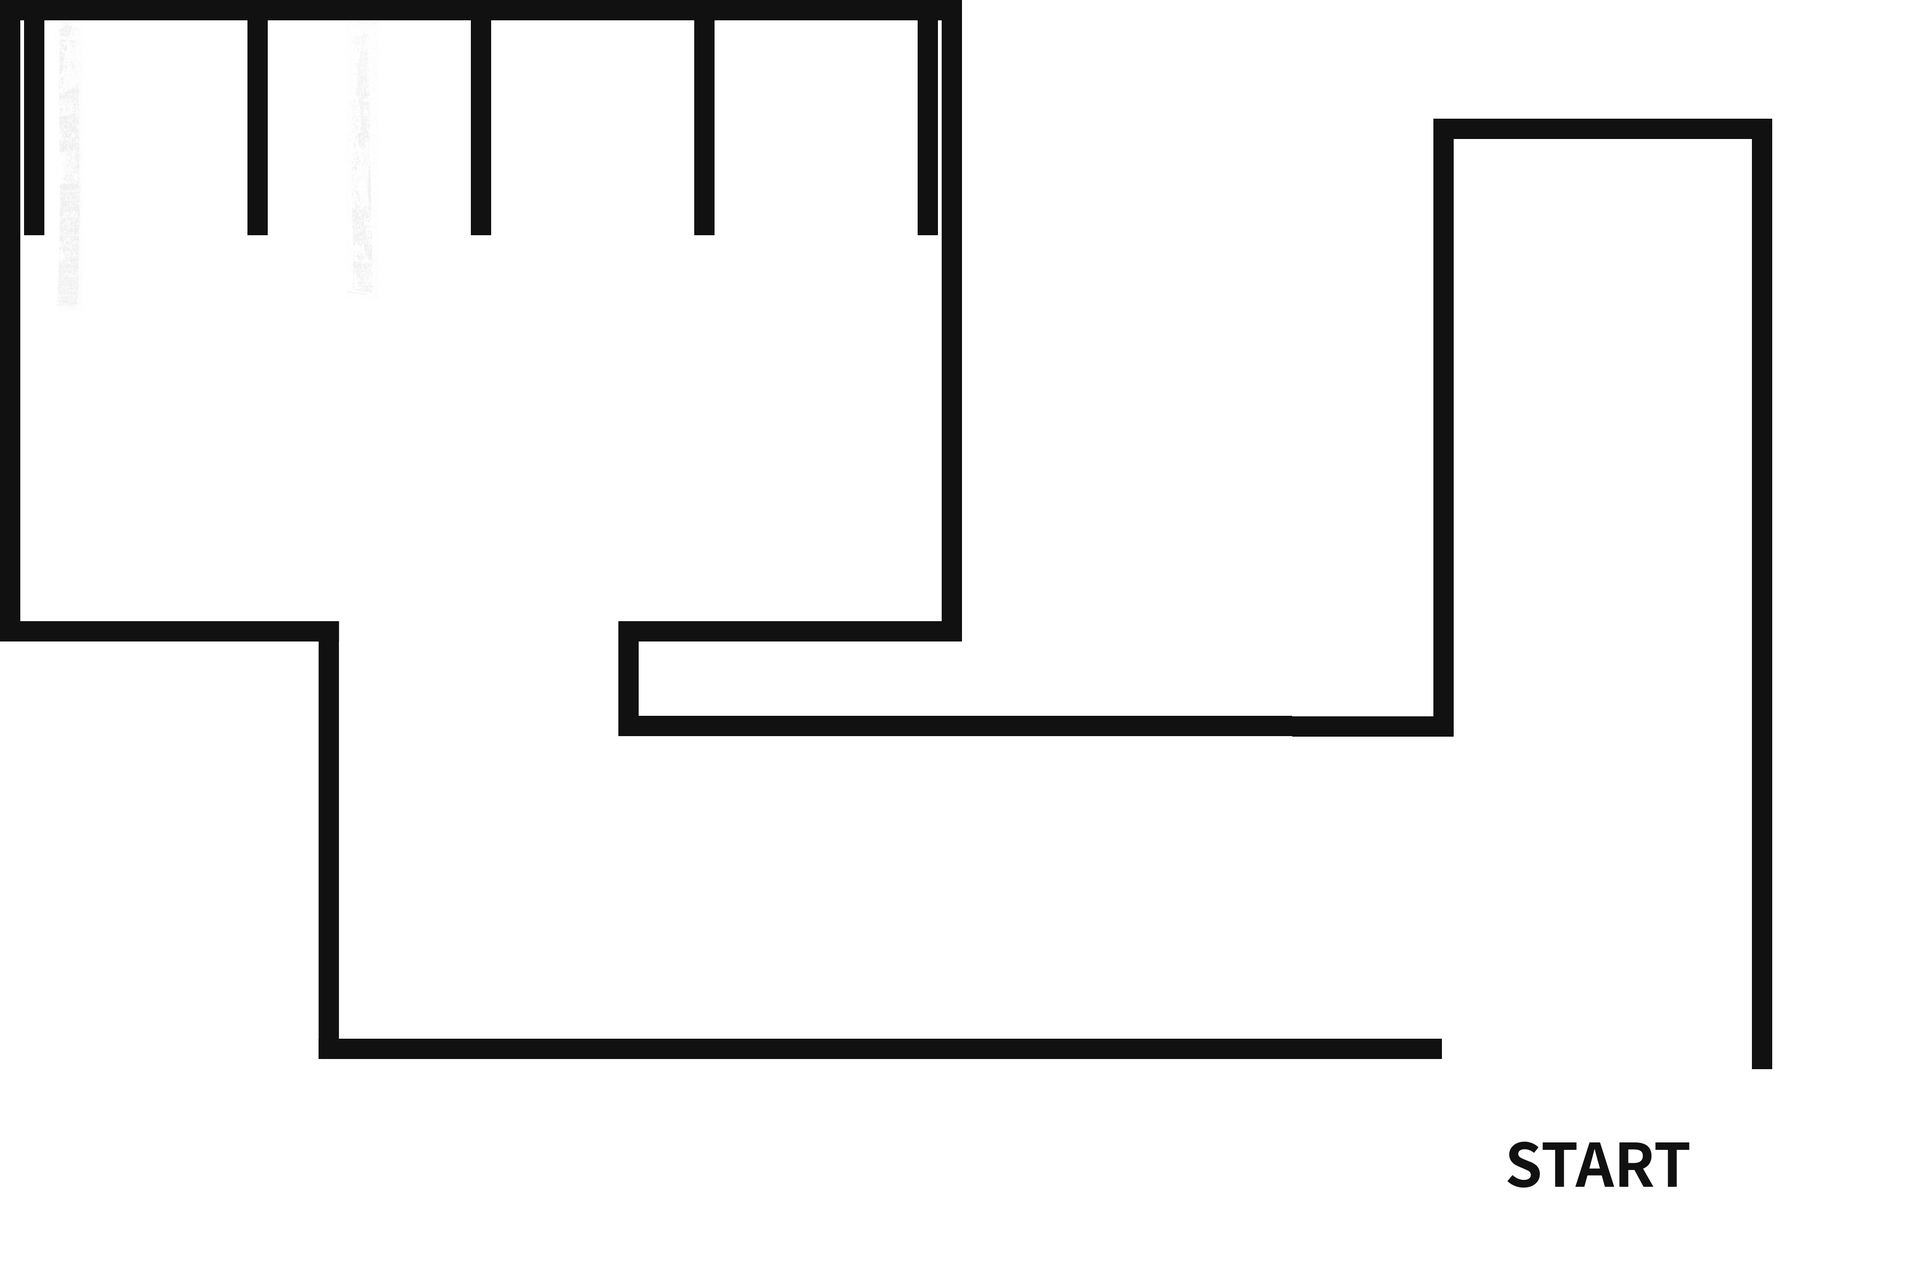
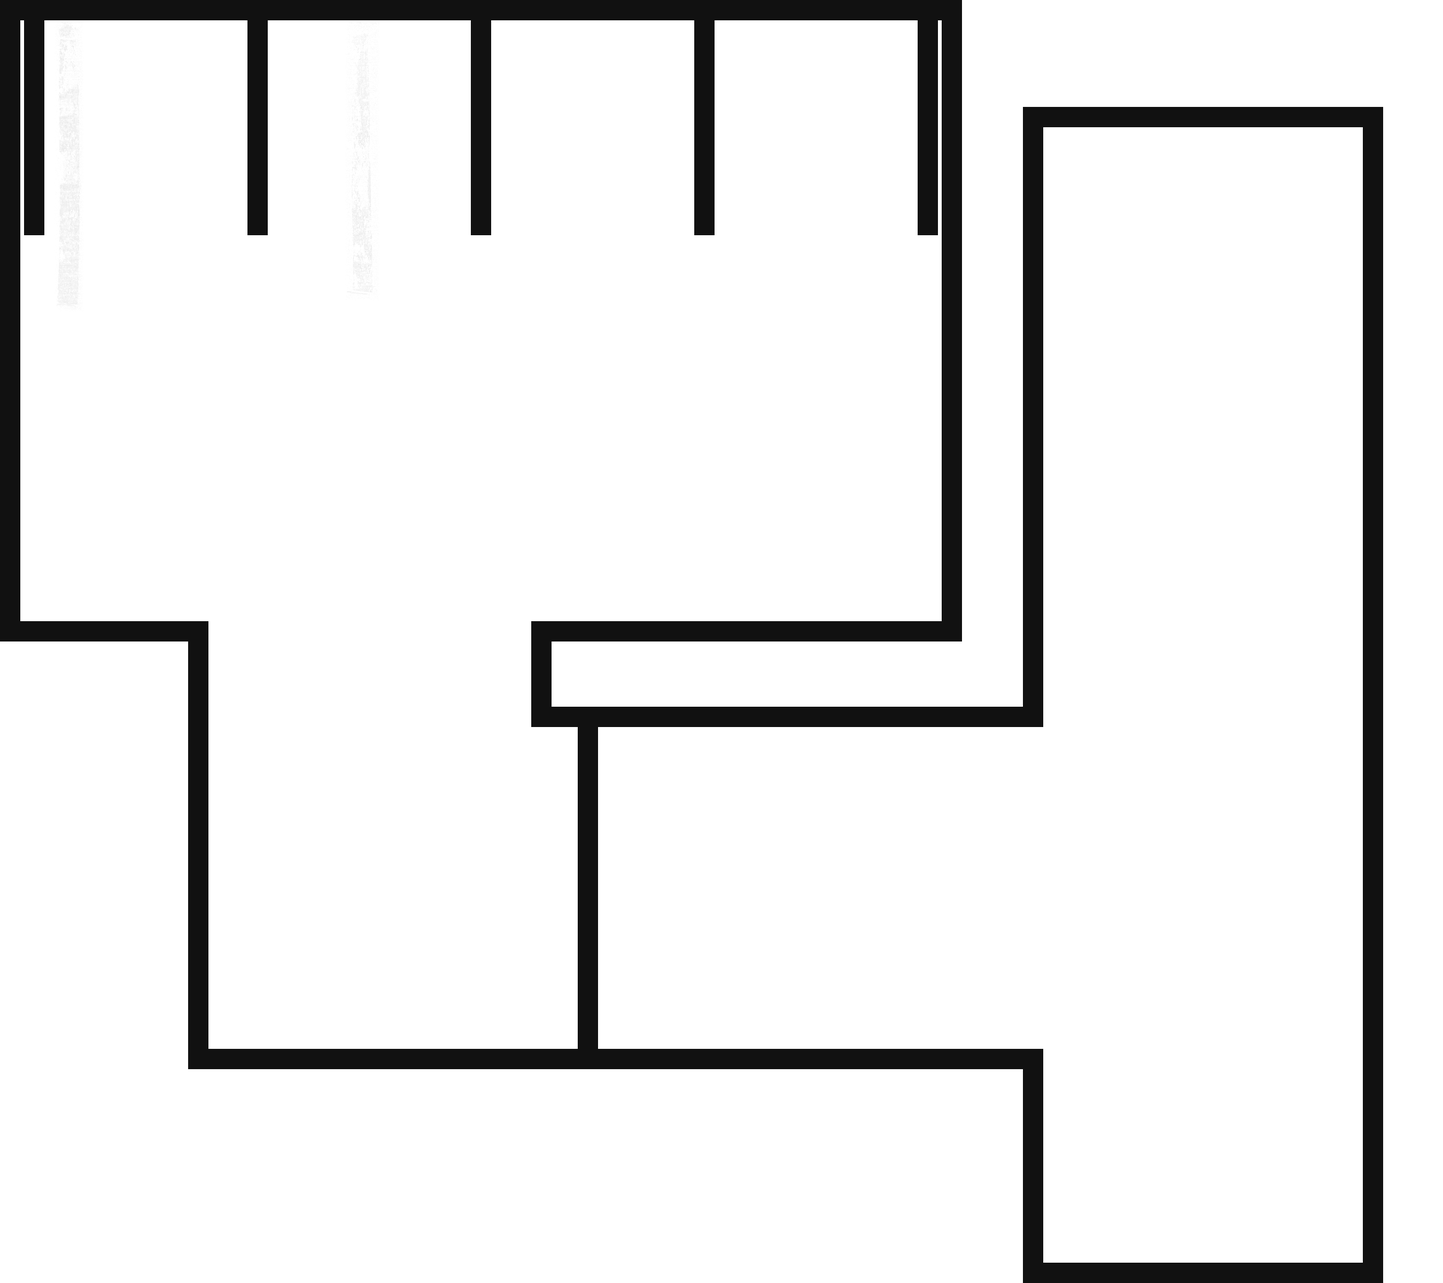
Sync sim with the new T course and the real ceiling webcam
- worlds: 1350 x 1200 T course floor (tape layout, stop line, tape residue), standing walls (white 0.21 m, cardboard 0.24 m); sim origin = robot start
- parking_ceiling_camera: calibrated NOVOMAX NC-150 pose (h 1.815 m, tilt 25.8 deg, HFOV 37.2 deg) and radial distortion k1 -0.2184
- tools/gen_parking_dataset.py: new tape map and camera, distortion on images and masks, curved line labels, +-3 cm / +-3 deg camera jitter, entrance poses, --split, poses.csv ground truth

Claude-Session: https://claude.ai/code/session_01RoE7SnZpyvVfbqpobF1oLc

diff --git a/tools/gen_parking_dataset.py b/tools/gen_parking_dataset.py
@@ -3,9 +3,14 @@
 
 Classes: 0 wheel, 1 line (black tape), 2 body (robot body, wheels excluded).
 Robot poses are sampled in the parking board (random, approaching, parked front-in / rear-in),
-with small camera, light and image randomisation. pinky_pro is not modified.
+with camera, light and image randomisation. The camera is the calibrated real webcam
+(NOVOMAX NC-150, 640x480) including its radial lens distortion. pinky_pro is not modified.
+A poses.csv with the ground-truth robot pose of every image is written next to data.yaml.
 
-usage: python gen_parking_dataset.py --out ~/dev_ws/pinky_parking_sim/datasets/parking_seg --count 2000
+usage:
+  train+val : python gen_parking_dataset.py --count 2000                      (val = --val fraction, seed 0)
+  test only : python gen_parking_dataset.py --count 300 --split test --seed 100
+Use a different --seed for each separately generated split so no pose/lighting sample is shared.
 """
 import argparse
 import math
@@ -19,20 +24,24 @@ from scipy.spatial import ConvexHull
 
 CLASSES = ['wheel', 'line', 'body']
 
-# Ceiling camera (same as parking_ceiling_camera node).
-CAM_POS = np.array([0.8, 1.05, 0.98])
-CAM_QUAT = np.array([0.7071068, 0.0, 0.0, 0.7071068])
-HFOV_DEG = 60.0
+# Ceiling camera: calibrated real webcam (same values as the parking_ceiling_camera node).
+CAM_POS = np.array([-0.2894, 0.5706, 1.815])
+CAM_QUAT = np.array([0.69746, 0.15253, -0.16265, -0.68105])
+HFOV_DEG = 37.21
+K1 = -0.2184
 
-# Black tape rectangles in floor-image mm (u from left, v from top, w, h); see worlds/course_floor.png.
+# Black tape rectangles in floor mm (u from left, v from top, w, h); floor 1350 x 1200,
+# see worlds/course_floor.png and docs course_tape_positions.md.
 TAPES = [
+    (0, 0, 900, 19), (0, 0, 19, 600), (881, 0, 19, 600),
     (22.5, 0, 19, 220), (231.5, 0, 19, 220), (440.5, 0, 19, 220), (649.5, 0, 19, 220), (858.5, 0, 19, 220),
-    (0, 0, 900, 19), (0, 0, 19, 600), (881, 0, 19, 600), (0, 581, 317.1, 19), (578.5, 581, 321.5, 19),
-    (298.1, 581, 19, 409.5), (578.5, 581, 19, 107.5), (578.5, 669.5, 630.5, 19), (298.1, 971.5, 850.9, 19),
-    (1341, 111, 317, 19), (1341, 111, 19, 569), (1209, 670, 151, 19), (1639, 111, 19, 889), (1149, 971.5, 200, 19),
+    (0, 581, 195, 19), (497, 581, 403, 19),
+    (176, 581, 19, 419), (497, 581, 19, 99), (497, 661, 479, 19), (176, 981, 800, 19), (540.5, 680, 19, 301),
+    (957, 100, 19, 580), (957, 100, 337, 19), (1275, 100, 19, 1100), (957, 981, 19, 219), (957, 1181, 337, 19),
 ]
 FLOOR_Z = 0.002
-SLOT_Y = [(1500 - u) / 1000 for u in (136.5, 345.5, 554.5, 763.5)]   # A..D slot centres (world y)
+START_U, START_V = 1125.0, 1090.0                                     # sim origin (robot start) in floor mm
+SLOT_U = (136.5, 345.5, 554.5, 763.5)                                 # A..D slot centres (floor u)
 
 REAL_COLORS = {'wheel': (0.05, 0.42, 0.72), 'body': (0.06, 0.06, 0.07), 'lidar': (0.04, 0.04, 0.05),
                'rear': (0.62, 0.62, 0.66), 'front': (0.45, 0.45, 0.45)}
@@ -44,7 +53,11 @@ COLOR_RULES = [('l_wheel_visual_0_4', 'wheel'), ('r_wheel_visual_0_4', 'wheel'),
 
 
 def mm_to_world(u, v):
-    return np.array([(1100 - v) / 1000, (1500 - u) / 1000, FLOOR_Z])
+    return np.array([(START_V - v) / 1000, (START_U - u) / 1000, FLOOR_Z])
+
+
+def world_to_mm(x, y):
+    return START_U - y * 1000, START_V - x * 1000
 
 
 def yaw_quat(yaw):
@@ -65,6 +78,43 @@ def small_rotation(rng, max_deg):
     return np.array([math.cos(angle / 2), *(axis * math.sin(angle / 2))])
 
 
+def render_size(width, height, f):
+    """Undistorted render a bit larger than the output so barrel distortion has source pixels."""
+    rd = math.hypot(width / 2, height / 2) / f
+    ru = rd
+    for _ in range(20):
+        ru = rd / (1 + K1 * ru * ru)
+    margin = max(1.0, ru / rd) * 1.08          # extra room for camera jitter is not needed; 8% safety
+    return int(math.ceil(width * margin / 2)) * 2, int(math.ceil(height * margin / 2)) * 2
+
+
+def distortion_map(width, height, f, rw, rh):
+    ys, xs = np.mgrid[0:height, 0:width].astype(np.float64)
+    xd, yd = (xs - width / 2) / f, (ys - height / 2) / f
+    xu, yu = xd.copy(), yd.copy()
+    for _ in range(20):
+        scale = 1 + K1 * (xu * xu + yu * yu)
+        xu, yu = xd / scale, yd / scale
+    return xu * f + rw / 2, yu * f + rh / 2
+
+
+def remap_bilinear(img, mx, my):
+    h, w = img.shape[:2]
+    x = np.clip(mx, 0, w - 1.001); y = np.clip(my, 0, h - 1.001)
+    x0, y0 = x.astype(np.int32), y.astype(np.int32)
+    fx, fy = (x - x0)[..., None], (y - y0)[..., None]
+    a = img.astype(np.float32)
+    top = a[y0, x0] * (1 - fx) + a[y0, x0 + 1] * fx
+    bot = a[y0 + 1, x0] * (1 - fx) + a[y0 + 1, x0 + 1] * fx
+    return top * (1 - fy) + bot * fy
+
+
+def remap_nearest(img, mx, my):
+    h, w = img.shape[:2]
+    x = np.clip(np.rint(mx), 0, w - 1).astype(np.int32); y = np.clip(np.rint(my), 0, h - 1).astype(np.int32)
+    return img[y, x]
+
+
 def build(model_path, width, height):
     spec = mujoco.MjSpec.from_file(model_path)
     for key, rgb in REAL_COLORS.items():
@@ -75,10 +125,14 @@ def build(model_path, width, height):
                 if geom.name.startswith(prefix):
                     geom.material, geom.rgba = f'real_{key}', [*REAL_COLORS[key], 1.0]
                     break
-    fovy = math.degrees(2 * math.atan(math.tan(math.radians(HFOV_DEG) / 2) * height / width))
+    f = width / 2 / math.tan(math.radians(HFOV_DEG) / 2)
+    rw, rh = render_size(width, height, f)
+    fovy = math.degrees(2 * math.atan(rh / 2 / f))
     spec.worldbody.add_camera(name='ceiling_camera', pos=CAM_POS.tolist(), quat=CAM_QUAT.tolist(), fovy=fovy)
+    spec.visual.global_.offwidth = max(spec.visual.global_.offwidth, rw)
+    spec.visual.global_.offheight = max(spec.visual.global_.offheight, rh)
     model = spec.compile()
-    return model, fovy
+    return model, f, rw, rh
 
 
 def geom_classes(model):
@@ -96,26 +150,44 @@ def geom_classes(model):
 
 
 def sample_pose(rng):
-    kind = rng.choice(['free', 'approach', 'parked'], p=[0.45, 0.25, 0.30])
-    if kind == 'free':                       # anywhere in the board, any heading
-        x, y, yaw = rng.uniform(0.56, 1.04), rng.uniform(0.66, 1.44), rng.uniform(-math.pi, math.pi)
+    """Robot centre (floor mm u, v) and heading; yaw 0 = facing the slots (-v), i.e. front-in."""
+    kind = rng.choice(['free', 'entrance', 'approach', 'parked'], p=[0.35, 0.15, 0.20, 0.30])
+    if kind == 'free':                       # anywhere on the parking board, any heading
+        u, v, yaw = rng.uniform(60, 840), rng.uniform(60, 560), rng.uniform(-math.pi, math.pi)
+    elif kind == 'entrance':                 # in the entrance / lower corridor, heading roughly up or down
+        u, v = rng.uniform(250, 445), rng.uniform(560, 760)
+        yaw = rng.choice([0.0, math.pi]) + rng.normal(0, math.radians(25))
     elif kind == 'approach':                 # between entrance and slots, roughly facing a slot
-        y = rng.choice(SLOT_Y) + rng.normal(0, 0.08)
-        x = rng.uniform(0.6, 0.9)
+        u = rng.choice(SLOT_U) + rng.normal(0, 80)
+        v = rng.uniform(250, 500)
         yaw = rng.choice([0.0, math.pi]) + rng.normal(0, math.radians(35))
     else:                                    # parked front-in (yaw 0) or rear-in (yaw pi), small errors
-        y = rng.choice(SLOT_Y) + rng.normal(0, 0.015)
-        x = rng.uniform(0.95, 1.01)
+        u = rng.choice(SLOT_U) + rng.normal(0, 15)
+        v = rng.uniform(90, 150)
         yaw = rng.choice([0.0, math.pi]) + rng.normal(0, math.radians(6))
-    return x, y, yaw, kind
+    x, y = mm_to_world(u, v)[:2]
+    return x, y, (yaw + math.pi) % (2 * math.pi) - math.pi, kind
 
 
 def project(points, data, cam_id, f, width, height):
+    """World points -> distorted output pixels (same model as the real webcam)."""
     pos, rot = data.cam_xpos[cam_id], data.cam_xmat[cam_id].reshape(3, 3)
     local = (points - pos) @ rot              # world -> camera frame (camera looks along -Z, +Y up)
-    u = width / 2 + f * local[:, 0] / -local[:, 2]
-    v = height / 2 - f * local[:, 1] / -local[:, 2]
-    return np.column_stack([u, v])
+    xu = local[:, 0] / -local[:, 2]
+    yu = -local[:, 1] / -local[:, 2]
+    scale = 1 + K1 * (xu * xu + yu * yu)
+    return np.column_stack([width / 2 + f * xu * scale, height / 2 + f * yu * scale])
+
+
+def tape_outline(u, v, w, h, step=10.0):
+    """Rectangle perimeter sampled every `step` mm so its curved (distorted) image is followed."""
+    pts = []
+    for (u0, v0), (u1, v1) in (((u, v), (u + w, v)), ((u + w, v), (u + w, v + h)),
+                               ((u + w, v + h), (u, v + h)), ((u, v + h), (u, v))):
+        n = max(1, int(math.ceil(math.hypot(u1 - u0, v1 - v0) / step)))
+        for t in np.arange(n) / n:
+            pts.append(mm_to_world(u0 + (u1 - u0) * t, v0 + (v1 - v0) * t))
+    return np.array(pts)
 
 
 def clip_polygon(poly, width, height):
@@ -165,49 +237,61 @@ def main():
     parser.add_argument('--model', default='~/.cache/pinky_mujoco/scene.xml')
     parser.add_argument('--out', default='~/dev_ws/pinky_parking_sim/datasets/parking_seg')
     parser.add_argument('--count', type=int, default=2000)
-    parser.add_argument('--val', type=float, default=0.1)
+    parser.add_argument('--val', type=float, default=0.1, help='val fraction when --split auto')
+    parser.add_argument('--split', default='auto', choices=['auto', 'train', 'val', 'test'],
+                        help='auto: train/val by --val; otherwise write every image to this split')
     parser.add_argument('--width', type=int, default=640)
     parser.add_argument('--height', type=int, default=480)
     parser.add_argument('--seed', type=int, default=0)
     parser.add_argument('--debug', type=int, default=10, help='overlay images to write')
+    parser.add_argument('--cam-jitter-m', type=float, default=0.03, help='camera position jitter (+- m)')
+    parser.add_argument('--cam-jitter-deg', type=float, default=3.0, help='camera rotation jitter (+- deg)')
     args = parser.parse_args()
 
     out = Path(os.path.expanduser(args.out))
-    for split in ('train', 'val'):
+    for split in ('train', 'val', 'test'):
         (out / 'images' / split).mkdir(parents=True, exist_ok=True)
         (out / 'labels' / split).mkdir(parents=True, exist_ok=True)
     (out / 'debug').mkdir(exist_ok=True)
     (out / 'data.yaml').write_text(
-        f'path: {out}\ntrain: images/train\nval: images/val\nnames:\n'
+        f'path: {out}\ntrain: images/train\nval: images/val\ntest: images/test\nnames:\n'
         + ''.join(f'  {i}: {n}\n' for i, n in enumerate(CLASSES)))
 
-    model, fovy = build(os.path.expanduser(args.model), args.width, args.height)
+    model, f, rw, rh = build(os.path.expanduser(args.model), args.width, args.height)
     data = mujoco.MjData(model)
     cam_id = model.camera('ceiling_camera').id
-    f = args.height / 2 / math.tan(math.radians(fovy) / 2)
+    map_x, map_y = distortion_map(args.width, args.height, f, rw, rh)
     table = geom_classes(model)
     wheel_q = [model.joint(f'{s}_wheel_joint').qposadr[0] for s in ('l', 'r')]
     base_z = float(model.qpos0[2])
     light0 = model.light_diffuse.copy()
     head0 = (model.vis.headlight.diffuse.copy(), model.vis.headlight.ambient.copy())
-    rgb_renderer = mujoco.Renderer(model, args.height, args.width)
-    seg_renderer = mujoco.Renderer(model, args.height, args.width)
+    rgb_renderer = mujoco.Renderer(model, rh, rw)
+    seg_renderer = mujoco.Renderer(model, rh, rw)
     seg_renderer.enable_segmentation_rendering()
-    tapes = [np.array([mm_to_world(u, v), mm_to_world(u + w, v), mm_to_world(u + w, v + h), mm_to_world(u, v + h)])
-             for u, v, w, h in TAPES]
+    tapes = [tape_outline(u, v, w, h) for u, v, w, h in TAPES]
+    pose_csv = out / 'poses.csv'
+    new_csv = not pose_csv.exists()
+    csv = open(pose_csv, 'a')
+    if new_csv:
+        csv.write('split,name,kind,x_m,y_m,yaw_rad,u_mm,v_mm,cam_dx,cam_dy,cam_dz,light_scale\n')
     rng = np.random.default_rng(args.seed)
     n_val = int(round(args.count * args.val))
 
     for k in range(args.count):
-        split = 'val' if k < n_val else 'train'
+        if args.split == 'auto':
+            split = 'val' if k < n_val else 'train'
+        else:
+            split = args.split
         x, y, yaw, kind = sample_pose(rng)
         data.qpos[:] = model.qpos0
         data.qpos[0:3] = [x, y, base_z]
         data.qpos[3:7] = yaw_quat(yaw)
         data.qpos[wheel_q] = rng.uniform(-math.pi, math.pi, 2)
-        # camera jitter: +-1 cm, +-1 deg (mount not perfectly placed)
-        model.cam_pos[cam_id] = CAM_POS + rng.uniform(-0.01, 0.01, 3)
-        model.cam_quat[cam_id] = quat_mul(CAM_QUAT, small_rotation(rng, 1.0))
+        # camera jitter (mount moved slightly / re-mounted): default +-3 cm, +-3 deg
+        cam_d = rng.uniform(-args.cam_jitter_m, args.cam_jitter_m, 3)
+        model.cam_pos[cam_id] = CAM_POS + cam_d
+        model.cam_quat[cam_id] = quat_mul(CAM_QUAT, small_rotation(rng, args.cam_jitter_deg))
         scale = rng.uniform(0.7, 1.2)
         model.light_diffuse[:] = light0 * scale
         model.vis.headlight.diffuse[:] = head0[0] * rng.uniform(0.7, 1.2)
@@ -216,9 +300,9 @@ def main():
         mujoco.mj_camlight(model, data)
 
         rgb_renderer.update_scene(data, camera='ceiling_camera')
-        rgb = rgb_renderer.render().astype(np.float32)
+        rgb = remap_bilinear(rgb_renderer.render(), map_x, map_y)          # lens distortion
         seg_renderer.update_scene(data, camera='ceiling_camera')
-        seg = seg_renderer.render()
+        seg = remap_nearest(seg_renderer.render(), map_x, map_y)
         # image randomisation: brightness/contrast, colour cast, sensor noise
         rgb = (rgb - 128) * rng.uniform(0.85, 1.15) + 128 + rng.uniform(-20, 20)
         rgb *= rng.uniform(0.97, 1.03, 3)
@@ -246,6 +330,9 @@ def main():
                     labels.append((1, poly))
 
         name = f'{k:05d}_{kind}'
+        u_mm, v_mm = world_to_mm(x, y)
+        csv.write(f'{split},{name},{kind},{x:.4f},{y:.4f},{yaw:.4f},{u_mm:.1f},{v_mm:.1f},'
+                  f'{cam_d[0]:.4f},{cam_d[1]:.4f},{cam_d[2]:.4f},{scale:.3f}\n')
         image.save(out / 'images' / split / f'{name}.jpg', quality=95)
         with open(out / 'labels' / split / f'{name}.txt', 'w') as fh:
             for cls, poly in labels:
@@ -259,9 +346,10 @@ def main():
             colors = {0: (0, 120, 255, 110), 1: (255, 0, 0, 90), 2: (0, 200, 0, 90)}
             for cls, poly in labels:
                 draw.polygon([tuple(p) for p in poly], fill=colors[cls], outline=colors[cls][:3] + (255,))
-            Image.alpha_composite(overlay, layer).convert('RGB').save(out / 'debug' / f'{name}.jpg')
+            Image.alpha_composite(overlay, layer).convert('RGB').save(out / 'debug' / f'{split}_{name}.jpg')
         if (k + 1) % 100 == 0 or k + 1 == args.count:
             print(f'{k + 1}/{args.count}', flush=True)
+    csv.close()
     print(f'done: {out}')
 
 

diff --git a/parking_ceiling_camera/parking_ceiling_camera/ceiling_camera_node.py b/parking_ceiling_camera/parking_ceiling_camera/ceiling_camera_node.py
@@ -43,29 +43,46 @@ class CeilingCamera(Node):
         super().__init__('ceiling_camera_node')
         p = self.declare_parameter
         model_path = os.path.expanduser(p('model_path', '~/.cache/pinky_mujoco/scene.xml').value)
-        pos = list(p('position', [0.8, 1.05, 0.98]).value)
-        quat = list(p('quat', [0.7071068, 0.0, 0.0, 0.7071068]).value)
-        hfov = math.radians(p('horizontal_fov_deg', 60.0).value)
+        pos = list(p('position', [-0.2894, 0.5706, 1.815]).value)
+        quat = list(p('quat', [0.69746, 0.15253, -0.16265, -0.68105]).value)
+        hfov = math.radians(p('horizontal_fov_deg', 37.21).value)
         self.width = int(p('width', 640).value)
         self.height = int(p('height', 480).value)
         fps = float(p('fps', 10.0).value)
         self.frame_id = p('frame_id', 'ceiling_camera').value
         real_colors = bool(p('real_colors', True).value)
-        fovy = math.degrees(2 * math.atan(math.tan(hfov / 2) * self.height / self.width))
+        # radial lens distortion of the real webcam (calibrated, OpenCV k1); 0 disables it
+        self.k1 = float(p('distortion_k1', -0.2184).value)
+        self.f = self.width / 2 / math.tan(hfov / 2)          # focal length in pixels
+        # render an undistorted image slightly larger than the output so that the
+        # barrel-distorted output has source pixels up to its corners
+        margin = 1.0
+        if self.k1 < 0:
+            rd = math.hypot(self.width / 2, self.height / 2) / self.f
+            ru = rd
+            for _ in range(20):
+                ru = rd / (1 + self.k1 * ru * ru)
+            margin = ru / rd * 1.02
+        self.rw = int(math.ceil(self.width * margin / 2)) * 2
+        self.rh = int(math.ceil(self.height * margin / 2)) * 2
+        fovy = math.degrees(2 * math.atan(self.rh / 2 / self.f))
 
         spec = mujoco.MjSpec.from_file(model_path)
         if real_colors:
             apply_real_colors(spec)
         spec.worldbody.add_camera(name='ceiling_camera', pos=pos, quat=quat, fovy=fovy)
+        spec.visual.global_.offwidth = max(spec.visual.global_.offwidth, self.rw)
+        spec.visual.global_.offheight = max(spec.visual.global_.offheight, self.rh)
         self.model = spec.compile()
         self.data = mujoco.MjData(self.model)
         self.base_z = float(self.data.qpos[2])
-        self.renderer = mujoco.Renderer(self.model, self.height, self.width)
+        self.renderer = mujoco.Renderer(self.model, self.rh, self.rw)
+        self.map_x, self.map_y = self.distortion_map()
 
-        fy = self.height / 2 / math.tan(math.radians(fovy) / 2)
+        fy = self.f
         cx, cy = self.width / 2, self.height / 2
         self.info = CameraInfo(width=self.width, height=self.height, distortion_model='plumb_bob',
-                               d=[0.0] * 5, k=[fy, 0.0, cx, 0.0, fy, cy, 0.0, 0.0, 1.0],
+                               d=[self.k1, 0.0, 0.0, 0.0, 0.0], k=[fy, 0.0, cx, 0.0, fy, cy, 0.0, 0.0, 1.0],
                                r=[1.0, 0, 0, 0, 1.0, 0, 0, 0, 1.0],
                                p=[fy, 0.0, cx, 0.0, 0.0, fy, cy, 0.0, 0.0, 0.0, 1.0, 0.0])
         self.info.header.frame_id = self.frame_id
@@ -76,7 +93,29 @@ class CeilingCamera(Node):
         self.info_pub = self.create_publisher(CameraInfo, 'ceiling_camera/camera_info', 10)
         self.create_timer(1.0 / fps, self.publish)
         self.get_logger().info(f'ceiling camera {self.width}x{self.height} @ {fps:g} Hz, '
-                               f'pos={pos}, hfov={math.degrees(hfov):g} deg, real_colors={real_colors}')
+                               f'pos={pos}, hfov={math.degrees(hfov):g} deg, k1={self.k1:g}, real_colors={real_colors}')
+
+    def distortion_map(self):
+        """For every output (distorted) pixel, the source pixel in the undistorted render."""
+        ys, xs = np.mgrid[0:self.height, 0:self.width].astype(np.float64)
+        xd = (xs - self.width / 2) / self.f
+        yd = (ys - self.height / 2) / self.f
+        xu, yu = xd.copy(), yd.copy()
+        for _ in range(20):                      # invert x_d = x_u * (1 + k1 * r_u^2)
+            scale = 1 + self.k1 * (xu * xu + yu * yu)
+            xu, yu = xd / scale, yd / scale
+        return xu * self.f + self.rw / 2, yu * self.f + self.rh / 2
+
+    def distort(self, rgb):
+        """Bilinear resample of the undistorted render into the distorted output image."""
+        x = np.clip(self.map_x, 0, self.rw - 1.001)
+        y = np.clip(self.map_y, 0, self.rh - 1.001)
+        x0, y0 = x.astype(np.int32), y.astype(np.int32)
+        fx, fy = (x - x0)[..., None], (y - y0)[..., None]
+        img = rgb.astype(np.float32)
+        top = img[y0, x0] * (1 - fx) + img[y0, x0 + 1] * fx
+        bottom = img[y0 + 1, x0] * (1 - fx) + img[y0 + 1, x0 + 1] * fx
+        return (top * (1 - fy) + bottom * fy).astype(np.uint8)
 
     def on_pose(self, msg):
         q = msg.pose.orientation
@@ -94,7 +133,7 @@ class CeilingCamera(Node):
         mujoco.mj_kinematics(self.model, self.data)
         mujoco.mj_camlight(self.model, self.data)
         self.renderer.update_scene(self.data, camera='ceiling_camera')
-        rgb = self.renderer.render()
+        rgb = self.distort(self.renderer.render())
         stamp = self.get_clock().now().to_msg()
         image = Image(height=self.height, width=self.width, encoding='rgb8', is_bigendian=0,
                       step=self.width * 3, data=np.ascontiguousarray(rgb).tobytes())
